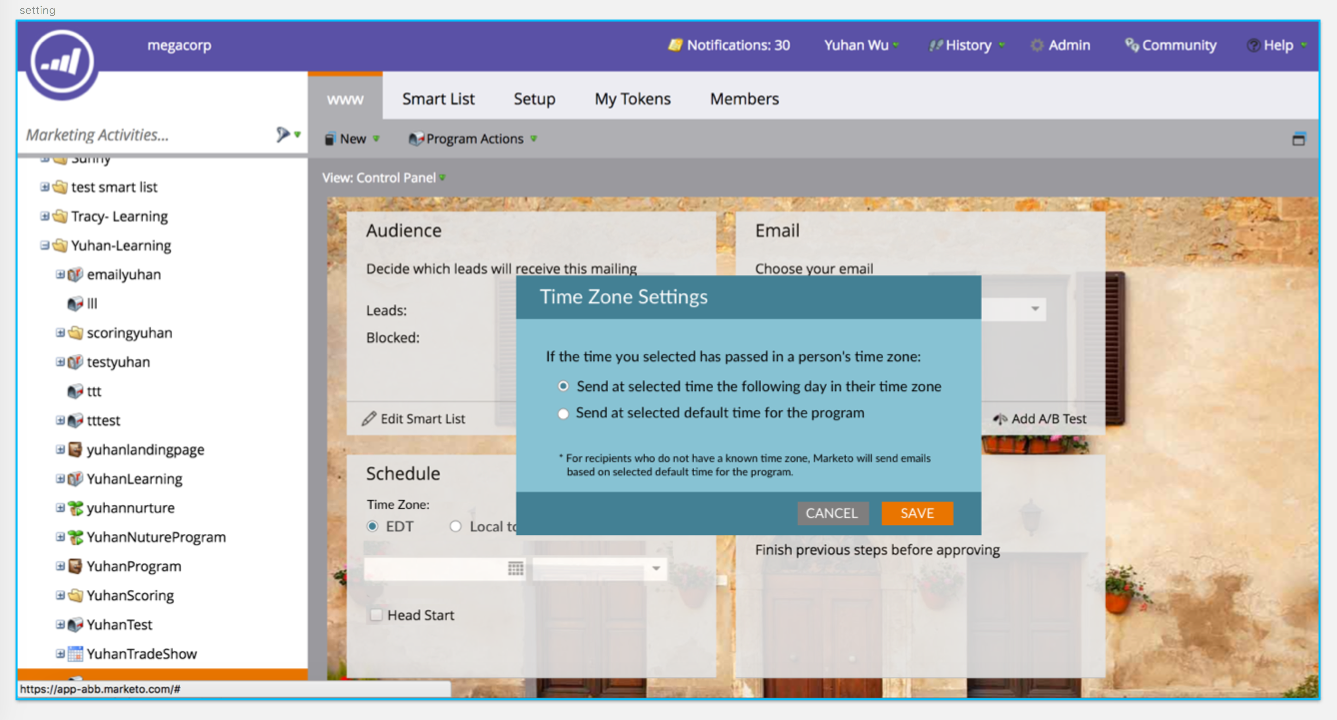
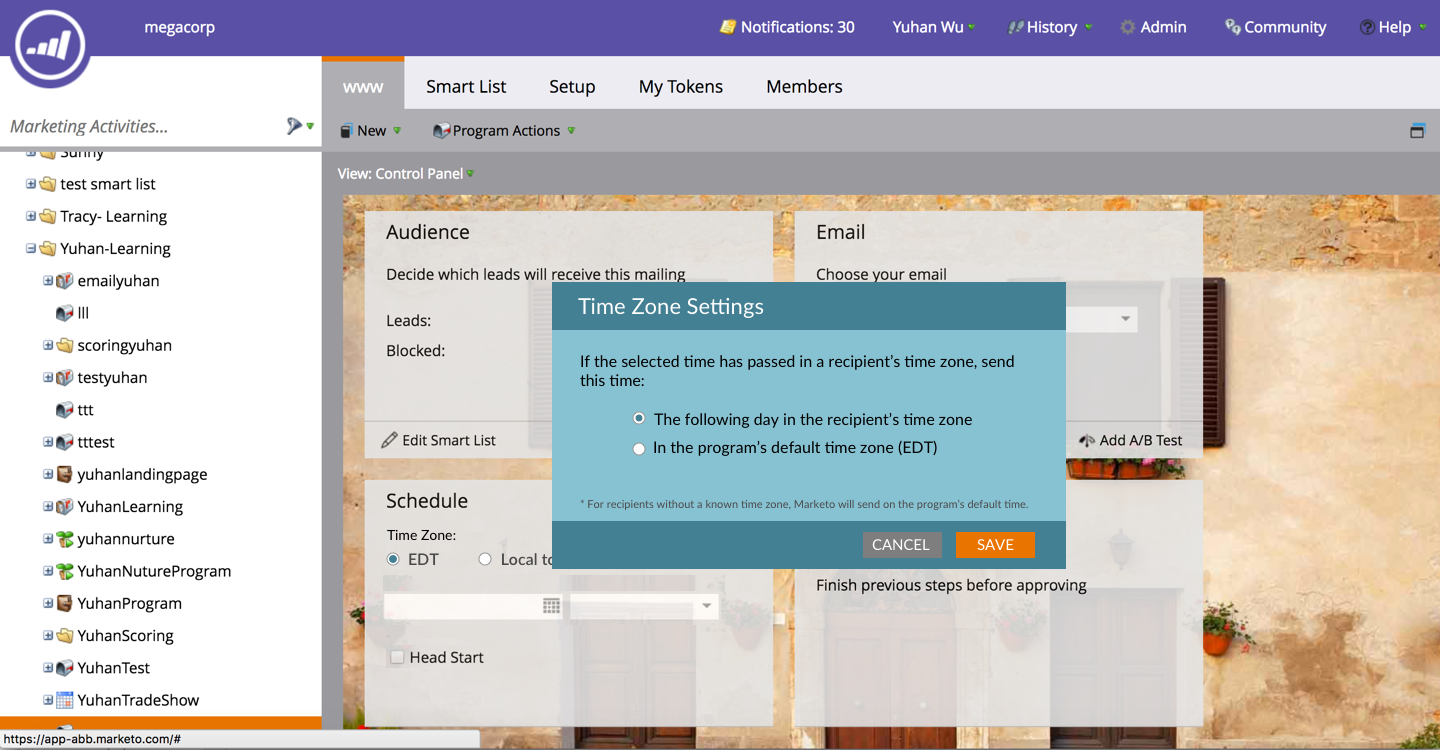
1
1

diff --git a/Marketo.html b/Marketo.html
@@ -102,9 +102,10 @@
                     <p class="regular">This summer I was an intern UX designer at Marketo. Every week I have a mentor from the team with different strengths in UX process taking me go deep into user research, system design, animation, visual design, etc. I also had two main projects and some side projects during the summer. I can really see myself growing as a UX designer! <br>See projects I worked on below:</p> 
                     
                     <p class="regular"><a href="#project1">Project 1: Send in Person Time Zone</a></p>
-                    <p class="regular"><a href="#project3">Project 2: Labels in Mercury System</a></p>
-                    <p class="regular"><a href="#project2">Project 3: Loading Animations</a></p>
-                    <p class="regular"><a href="#project4">Project 4: Redesign support space website</a></p>
+                    <p class="regular"><a href="#project2">Project 2: UI Library and Worktray</a></p>
+                    <p class="regular"><a href="#project3">Project 3: Labels in Mercury System</a></p>
+                    <p class="regular"><a href="#project4">Project 4: Loading Animations</a></p>
+                    <p class="regular"><a href="#project5">Project 5: Redesign support space website</a></p>
 
                 </div>
                 
@@ -251,9 +252,30 @@
              <p class="regular">This project really means a lot to me as a UX designer. It gave me the opportunity to experience how design can really make people's lives easier. When I was doing user testings, there is one user, after I introduce this concept to her, she actually yelled on the other side of BlueJeans, saying "Yay we have been waiting for this for so long" and she showed me how she has been using those time zone calculation Apps to solve this problem by herself. Another user who is in England and I need to be in the office at 8 AM. But after she flowed the design flow perfectly without any confusion and kept saying "This is so cool, if I have this last week I didn't need to schedule 20 different engagement programs". I believe a designer can never feel more satisfaction than that moment. Besides my ups, there are also downs. That design review was a tough but valuable experience.</p>
                 </div>
             
+                <div class="project-real-content col-xs-12 col-sm-12 col-md-8 col-md-offset-2">
+                  <h1 id="project2">Project 2: UI Library and Worktray</h1>
+                     <h2>New UI System 😻:</h2>
+                    <p class="regular">When I was working on Send in Lead Time Zone which is based on the old system, it was a little bit bothering because this system was built ten years ago and there is no UI library at all! There is no standard in terms of drawing each element and it also takes a lot of effort to develop it.</p>
+                    <p class="regular">Luckily! Marketo is building a new UI system which will be released for testing in late September. I helped with our visual designer on the UI library and re-layout some screens.</p>
+                    <h3>UI Library</h3>
+                    <p class="regular">This is the UI library that our visual designer created. This is my first time working on a real UI library and it is so exciting for me because it can really improve the efficiency of the whole design process.</p>
+                    <img class="img-responsive" src="images/uilib.png"> 
+                    <h3>Small part of my work</h3>
+                    <p class="regular">These are just 2 out of 20+ screens I worked on. The main challenges for me are <br>
+                        (1) to understand all the information structure so I can map every information with the right UI element.<br>
+                    (2) for elements that we don't have an existing pattern in the UI library, I need to create this certain element.<br>
+                    (3) what is the best layout of each screen?</p>
+                    <img class="img-responsive" src="images/clone.png"> 
+                    <img class="img-responsive" src="images/social.png"> 
+                    <p class="regular">To overcome the first challenge, I put a lot of effort learning and understanding a lot of details about how Marketo and marketing work. That's also when I felt how interesting UX design is. UX design is never an independent discipline. It is just like a girl who has great adaptability.(I wrote a <a href="https://medium.com/@yuhannwu/ux-design-is-just-like-a-girl-who-have-adaptability-58cf14e7f5d3">medium article</a> about this thought!) Only when I understand every screen thoroughly can I figure out the correct information structure!</p>
+                    <p class="regular">To overcome the second challenge, also the challenge of which layout works best, what I did was actually simple:<br>(1) sketch out every possibility of the elements and layouts <br>(2) ask people for opinions and further suggestions <br>(3) synthesize all the feedback I got and make a final decision.<br> <br>A little reflection now: <br> I was always wondering, why did I tend to ask people for opinions and is it the right way to do design? But recently I took a class called "crowdsourcing and human computing". There is a scientific theory "The Condorcet Jury Theorem" says that when the chance of every person in a group is right is better than a random answer, as the number of people grows, the final answer tends to reach 100% correct. </p>
+                    <p class="regular">From my personal understanding, UI library or atom design is quite a breakthrough and I believe there are more breakthroughs we can find in design！</p>
+                    
+                </div>
+                    
                 
                  <div class="project-real-content col-xs-12 col-sm-12 col-md-8 col-md-offset-2">
-                  <h1 id="project3">Project 2: Labels in Mercury System</h1>
+                  <h1 id="project3">Project 3: Labels in Mercury System</h1>
                      <h2>Problem We Are Solving：</h2>
                     <p class="regular">Marketo is developing a new UI system "Mercury". In the Marketo App, every time a marketer creates a program, there will be a tree node. Based on previous user research, many customers have tons of program tree nodes and it's so hard for them to manage, search and view reports. We got a requirement from product managers that we are introducing labels into the Mercury system where a user can put a label on a program for future search and reports.</p>
                      <h2>Start With Core Function</h2>
@@ -293,7 +315,7 @@
                 
                 
                 <div class="project-real-content col-xs-12 col-sm-12 col-md-8 col-md-offset-2">
-                  <h1 id="project2">Project 3: Loading Animation</h1>
+                  <h1 id="project4">Project 4: Loading Animation</h1>
                     <p class="regular">Marketo is developing a new system with new UX and UI. One of my tasks is to design the animation when a user is loading into the new system. </p>
                     <h2>Branding First:</h2>
                     <p class="regular">An important thing I learned in this internship is our product should always speak for the brand. So the first thing we did was talking with the creative department and internal employees to understand the brand we are trying to show to our customers. After we got all the resources, we landed on some keywords: <br>• Customers first<br>• Professional yet playful<br>• Energetic<br>• Complicated yet simple</p>
@@ -314,7 +336,7 @@
                 </div>
                 
                  <div class="project-real-content col-xs-12 col-sm-12 col-md-8 col-md-offset-2">
-                     <h1 id="project4">Project 4: Redesign Support Space Website</h1>
+                     <h1 id="project5">Project 5: Redesign Support Space Website</h1>
                      <h2>Design Help Meet-up</h2>
                      <p class="regular">This project was a design help for customer support department. The original website was built a long time ago and is super complicated and confusing. People from the support department needed our help reorganizing the information structure and overall layout. The original website looks like this:</p>
                       <img class="img-responsive" src="images/supportoriginal.png"> 
